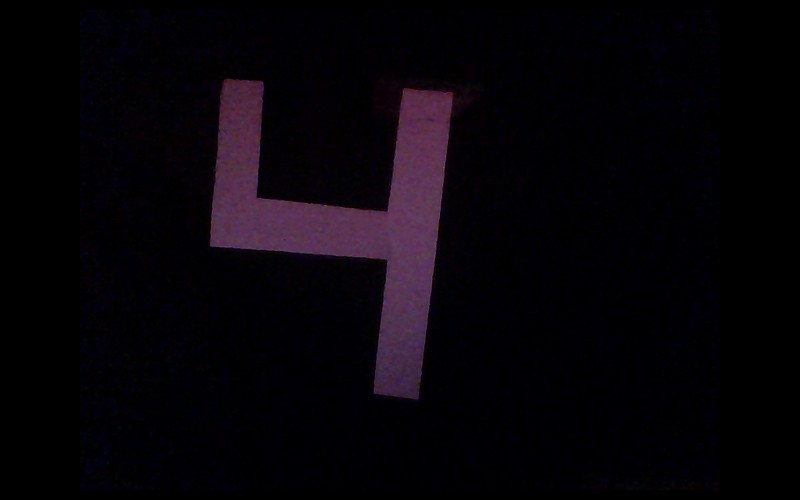
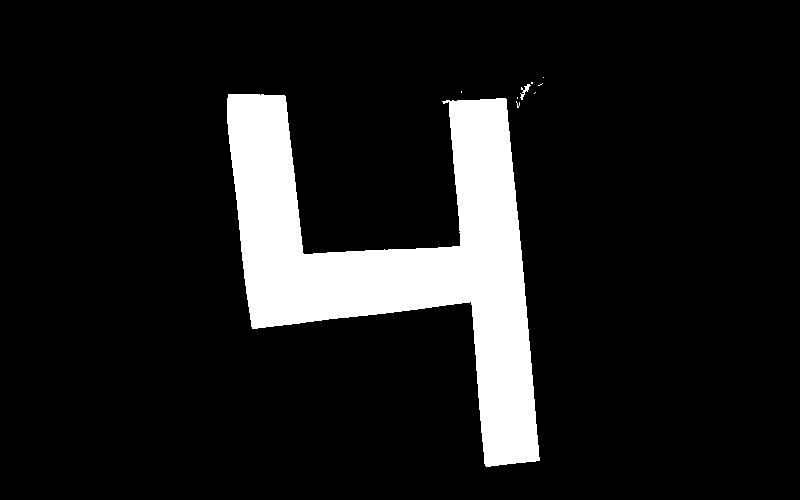
porfin reconoce los numeros el modelo

Changed region(s): [[0.25, 0.15, 0.6875, 0.93]]

diff --git a/ROBOTV1/wen2.py b/ROBOTV1/wen2.py
@@ -1,0 +1,83 @@
+import serial #cargamos la libreria serial
+import numpy as np
+import cv2
+#import robopy as rob
+
+#Iniciamos la comunicacion serial
+ser = serial.Serial('com3', 9600)
+
+
+cap = cv2.VideoCapture(0)
+col = int(cap.get(3))
+fil = int(cap.get(4))
+Objetos = (np.zeros((fil,col),np.uint8))+255
+while(cap.isOpened()):
+     ret, frame1 = cap.read()
+     gray1 = cv2.cvtColor(frame1, cv2.COLOR_BGR2GRAY)
+
+     gauss = cv2.GaussianBlur(gray1,(3,3),0)
+     bordes = cv2.Canny(gauss,150,255)
+     kernel = np.ones((10,10),np.uint8)
+     mask1 = cv2.morphologyEx(bordes,cv2.MORPH_OPEN,kernel)
+     mask2 = cv2.morphologyEx(mask1,cv2.MORPH_CLOSE,kernel)
+     mask2 = mask2.astype('uint8')
+
+     (_, contornos,_) = cv2.findContours(bordes.copy(), cv2.RETR_TREE, cv2.CHAIN_APPROX_SIMPLE)
+
+     lines = cv2.HoughLinesP(bordes, 1, np.pi/180, 100, minLineLength=10, maxLineGap=10)
+
+     for c in contornos:
+        M = cv2.moments(c)
+
+        area = cv2.contourArea(c)
+        perimeter = cv2.arcLength(c,True)
+        approx = cv2.approxPolyDP(c,0.02*perimeter,True)
+        if area > 1000 and area < 5000:
+            cx = int(M['m10']/M['m00']) #Coordenada en X
+            cy = int(M['m01']/M['m00']) #Coordenadas en Y
+
+            #print("Area {} ".format([c]),"Contorno {} ".format(M),"Cx {}".format(cx),"Cy{}".format(cy))
+            print("Cx = {}".format(cx),"Cy = {}".format(cy))
+            #print("Area {} ".format([c]),"Contorno {} ".format(M))
+            cv2.drawContours(frame1, [c], 0, (0, 255, 0), 1, cv2.LINE_AA)
+
+            Ro = 0
+            Az = 255
+            Ve = 255
+            cv2.rectangle(frame1, (cx,cy), (cx+2,cy+2),(Ro,Az,Ve), 2)
+            cv2.drawContours(Objetos, [c], 0, (0, 255, 0), 1, cv2.LINE_AA)
+
+     #for line in lines:
+      #  x1, y1, x2, y2 = line[0]
+      #  cv2.line(frame1, (x1,y1), (x2,y2), (0,0,255), 1, cv2.LINE_AA)
+        #Objetos = (np.zeros((fil,col),np.uint8))+255
+
+     #print("Introduzca Un comando = :")
+     #comando = input()
+     #print("Comando{}",format(comando))
+     #if(col/2 > Cy):
+         #cm
+      #  ser.write('I')
+       # print("Mayor")
+
+     #elsif(col/2<Cy)
+      #  ser.write('D')
+
+       # print("Menor")
+       #else
+         #ser.write(A)
+     cv2.imshow('Imagen Bordes',bordes)
+     cv2.imshow('Imagen Original',frame1)
+     cv2.imshow('Imagen Mascara',Objetos)
+
+
+     if cv2.waitKey(50) & 0xFF == ord('q'):
+        break
+colm = cap.get(3)
+film = cap.get(4)
+print(film)
+print(colm)
+#print(ret)
+
+cap.release()
+cv2.destroyAllWindows()

diff --git a/ROBOTV1/wen1.py b/ROBOTV1/wen1.py
@@ -1,0 +1,58 @@
+#Codigo de interaccion entre Arduino y OpenCV
+#Por Glar3
+
+import cv2
+import numpy as np
+import serial #cargamos la libreria serial
+#Iniciamos la camara
+captura = cv2.VideoCapture(2)
+
+#Iniciamos la camara
+#Iniciamos la comunicacion serial
+ser = serial.Serial('com3', 9600)
+
+while(1):
+
+   #Capturamos una imagen y la convertimos de RGB -> HSV
+   _, imagen = captura.read()
+   hsv = cv2.cvtColor(imagen, cv2.COLOR_BGR2HSV)
+
+   #Establecemos el rango de colores que vamos a detectar
+   #En este caso de verde oscuro a verde-azulado claro
+   verde_bajos = np.array([49,50,50], dtype=np.uint8)
+   verde_altos = np.array([80, 255, 255], dtype=np.uint8)
+
+   #Crear una mascara con solo los pixeles dentro del rango de verdes
+   mask = cv2.inRange(hsv, verde_bajos, verde_altos)
+
+   #Encontrar el area de los objetos que detecta la camara
+   moments = cv2.moments(mask)
+   area = moments['m00']
+
+   #Descomentar para ver el area por pantalla
+   #print area
+
+   #Si el objeto tiene un area determinada, escribimos 'h'
+   #Si no, escribimos un caracter erroneo
+   print area
+   limsup=9537000
+   liminf=6554265
+   if(area<limsup and area>liminf):
+       ser.write('r')
+       print ("Recto")
+   elif(area > limsup):
+      ser.write('h')
+      print("Mayor")
+   elif(area < liminf):
+      ser.write('n')
+      print("Menor")
+
+   #Mostramos la imagen original y
+   #la mascara
+   cv2.imshow('mask', mask)
+   cv2.imshow('Camara', imagen)
+   tecla = cv2.waitKey(5) & 0xFF
+   if tecla == 27:
+      break
+
+cv2.destroyAllWindows()

diff --git a/practicacurso/pruebaGrande.py b/practicacurso/pruebaGrande.py
@@ -5,6 +5,8 @@ import numpy
 import scipy.misc
 import matplotlib.pyplot as pl
 from PIL import Image
+import cv2
+
 
 r=loadmat ("modeloDig")
 #print "la tabla contiene:"
@@ -25,17 +27,29 @@ key = scipy.misc.imread("inumero.jpg")
 #ext = key.resize((20, 20), img.ANTIALIAS)
 #key.save("BICUBIC" + ext)
 
+print "imagen a colors"
+imagen = Image.open("inumero.jpg")
+imagen.show()
+print imagen.size
+
+print "gris"
+#imagen_gris = imagen.convert('L')
+#imagen_gris.show()
+#print imagen_gris.size
+
+gray = cv2.imread('inumero.jpg', cv2.IMREAD_GRAYSCALE)
+t, dst = cv2.threshold(gray, 170, 255, cv2.THRESH_BINARY)
+#cv2.imshow('umbral', gray)
+#cv2.imshow('result', dst)
+cv2.imwrite('inumero.jpg', dst)
+#cv2.waitKey(0)
 
 print "imagen a colors"
 imagen = Image.open("inumero.jpg")
 imagen.show()
 print imagen.size
-print "gris"
-imagen_gris = imagen.convert('L')
-imagen_gris.show()
-print imagen_gris.size
 print "imagen reducida"
-ext = imagen_gris.resize((20, 20), Image.BICUBIC)
+ext = imagen.resize((20, 20), Image.BICUBIC)
 ext.show()
 print ext.size
 ext.save("minisi.jpg")

diff --git a/practicacurso/archivo.py b/practicacurso/archivo.py
@@ -1,17 +1,8 @@
 from PIL import Image
+import cv2
 
-
-imagen = Image.open("IMG_20190620_212744.png")
-imagen.show()
-print imagen.size
-ext = imagen.resize((20, 20), Image.BICUBIC)
-#key.save("BICUBIC" + ext)
-ext.show()
-print imagen.size
-
-
-miniatura = (20, 20)
-imagen.thumbnail(miniatura)
-imagen.show()
-print imagen.size
-imagen.save("miniatura.png")
+gray = cv2.imread('inumero.jpg', cv2.IMREAD_GRAYSCALE)
+t, dst = cv2.threshold(gray, 170, 255, cv2.THRESH_BINARY)
+cv2.imshow('umbral', gray)
+cv2.imshow('result', dst)
+cv2.waitKey(0)
